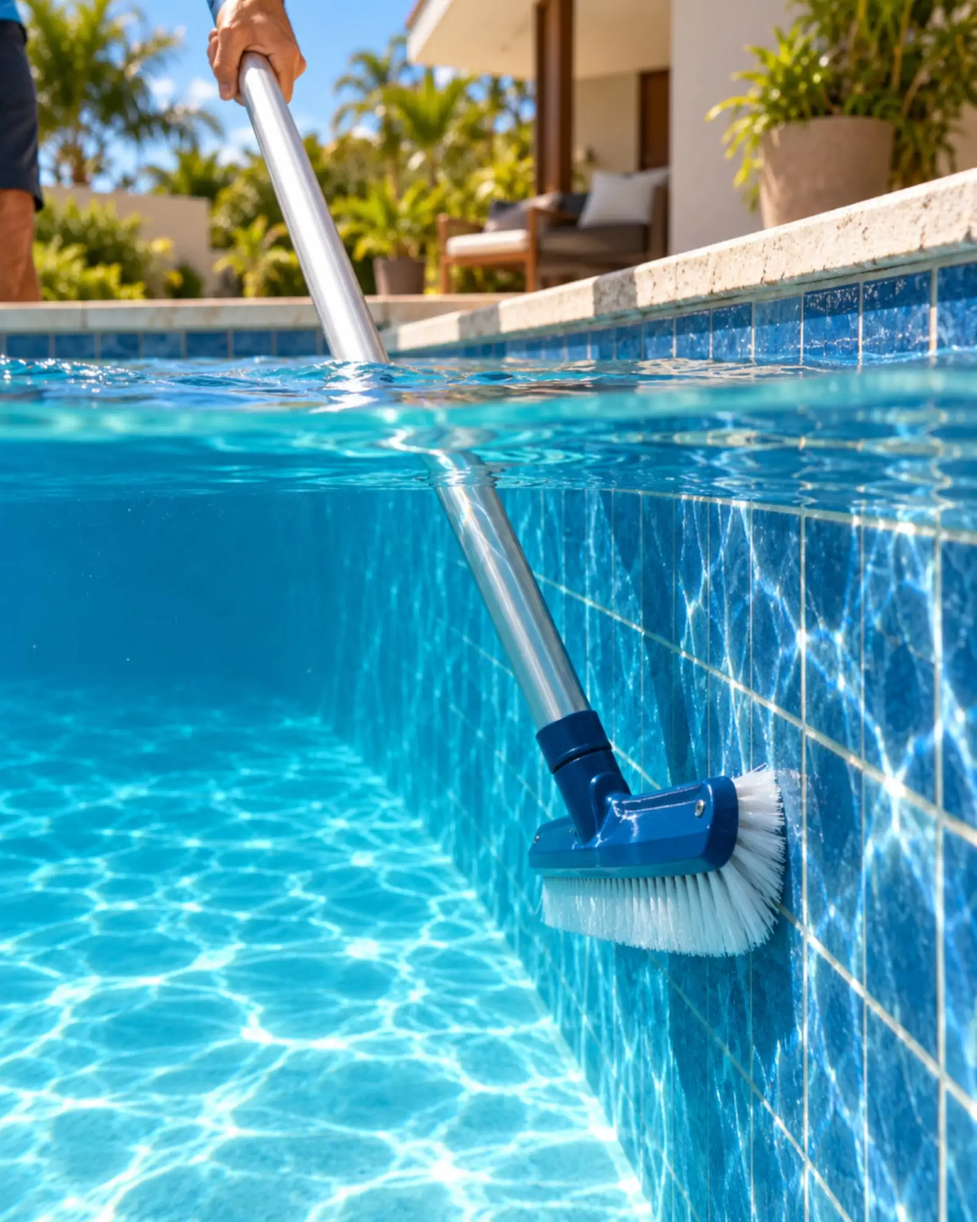
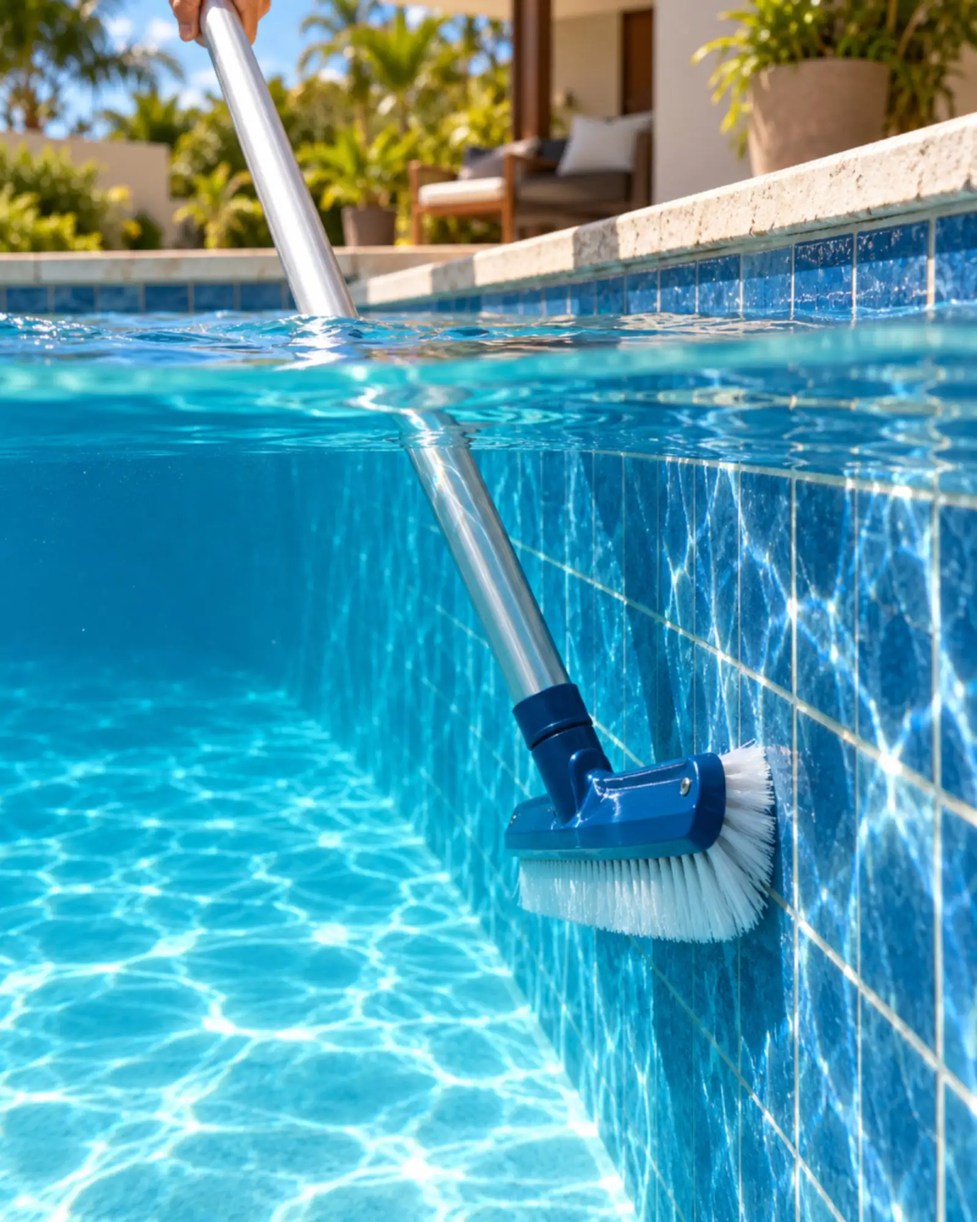
Ajustes r2: divisória da grade de marcas, controle −/+ no card da limpeza, nova foto do card Serviço

diff --git a/limpeza.html b/limpeza.html
@@ -62,37 +62,37 @@
     <div class="aviso-pendente" role="note"><p class="aviso-pendente__rotulo">PRECISA DE RESPOSTA DO VINI:</p><p>lista dos produtos de limpeza em estoque (nome, marca, embalagem) e se entregam ou só retirada. Os 16 itens abaixo são uma lista comum, para ajustar.</p></div>
     <div class="filtros" role="group" aria-label="Filtrar por tipo"><button type="button" data-filtro="todos" aria-pressed="true">Todos</button><button type="button" data-filtro="Cloro" aria-pressed="false">Cloro</button><button type="button" data-filtro="Algicida" aria-pressed="false">Algicida</button><button type="button" data-filtro="Clarificante" aria-pressed="false">Clarificante</button><button type="button" data-filtro="pH e alcalinidade" aria-pressed="false">pH e alcalinidade</button><button type="button" data-filtro="Borda e filtro" aria-pressed="false">Borda e filtro</button><button type="button" data-filtro="Testes" aria-pressed="false">Testes</button><button type="button" data-filtro="Acessórios" aria-pressed="false">Acessórios</button></div>
     <ul class="catalogo" role="list" data-catalogo data-rascunho><li class="card-produto" data-produto="cloro-granulado" data-nome="Cloro granulado" data-tipo="Cloro"><span class="icone-circulo"><svg aria-hidden="true" focusable="false" class="icone icone--droplets" xmlns="http://www.w3.org/2000/svg" width="24" height="24" viewBox="0 0 24 24" fill="none" stroke="currentColor" stroke-width="1.5" stroke-linecap="round" stroke-linejoin="round" ><path d="M7 16.3c2.2 0 4-1.83 4-4.05 0-1.16-.57-2.26-1.71-3.19S7.29 6.75 7 5.3c-.29 1.45-1.14 2.84-2.29 3.76S3 11.1 3 12.25c0 2.22 1.8 4.05 4 4.05z" /><path d="M12.56 6.6A10.97 10.97 0 0 0 14 3.02c.5 2.5 2 4.9 4 6.5s3 3.5 3 5.5a6.98 6.98 0 0 1-11.91 4.97" /></svg></span><h3>Cloro granulado</h3><p>Para o tratamento do dia a dia.</p>
-      <button type="button" class="botao botao--contorno" data-adicionar><svg aria-hidden="true" focusable="false" class="icone icone--plus" xmlns="http://www.w3.org/2000/svg" width="24" height="24" viewBox="0 0 24 24" fill="none" stroke="currentColor" stroke-width="1.5" stroke-linecap="round" stroke-linejoin="round" ><path d="M5 12h14" /><path d="M12 5v14" /></svg><span data-rotulo>Adicionar</span></button>
+      <button type="button" class="botao botao--contorno" data-adicionar aria-label="Adicionar Cloro granulado ao pedido"><svg aria-hidden="true" focusable="false" class="icone icone--plus" xmlns="http://www.w3.org/2000/svg" width="24" height="24" viewBox="0 0 24 24" fill="none" stroke="currentColor" stroke-width="1.5" stroke-linecap="round" stroke-linejoin="round" ><path d="M5 12h14" /><path d="M12 5v14" /></svg><span data-rotulo>Adicionar</span></button>
       <span class="card-produto__qtd" data-qtd hidden><button type="button" data-card-menos aria-label="Tirar um Cloro granulado">−</button><output aria-live="polite">0</output><button type="button" data-card-mais aria-label="Pôr mais um Cloro granulado">+</button></span></li><li class="card-produto" data-produto="cloro-pastilha" data-nome="Cloro em pastilha" data-tipo="Cloro"><span class="icone-circulo"><svg aria-hidden="true" focusable="false" class="icone icone--pill" xmlns="http://www.w3.org/2000/svg" width="24" height="24" viewBox="0 0 24 24" fill="none" stroke="currentColor" stroke-width="1.5" stroke-linecap="round" stroke-linejoin="round" ><path d="m10.5 20.5 10-10a4.95 4.95 0 1 0-7-7l-10 10a4.95 4.95 0 1 0 7 7Z" /><path d="m8.5 8.5 7 7" /></svg></span><h3>Cloro em pastilha</h3><p>Dissolve aos poucos no flutuador ou no clorador.</p>
-      <button type="button" class="botao botao--contorno" data-adicionar><svg aria-hidden="true" focusable="false" class="icone icone--plus" xmlns="http://www.w3.org/2000/svg" width="24" height="24" viewBox="0 0 24 24" fill="none" stroke="currentColor" stroke-width="1.5" stroke-linecap="round" stroke-linejoin="round" ><path d="M5 12h14" /><path d="M12 5v14" /></svg><span data-rotulo>Adicionar</span></button>
+      <button type="button" class="botao botao--contorno" data-adicionar aria-label="Adicionar Cloro em pastilha ao pedido"><svg aria-hidden="true" focusable="false" class="icone icone--plus" xmlns="http://www.w3.org/2000/svg" width="24" height="24" viewBox="0 0 24 24" fill="none" stroke="currentColor" stroke-width="1.5" stroke-linecap="round" stroke-linejoin="round" ><path d="M5 12h14" /><path d="M12 5v14" /></svg><span data-rotulo>Adicionar</span></button>
       <span class="card-produto__qtd" data-qtd hidden><button type="button" data-card-menos aria-label="Tirar um Cloro em pastilha">−</button><output aria-live="polite">0</output><button type="button" data-card-mais aria-label="Pôr mais um Cloro em pastilha">+</button></span></li><li class="card-produto" data-produto="cloro-choque" data-nome="Cloro para choque" data-tipo="Cloro"><span class="icone-circulo"><svg aria-hidden="true" focusable="false" class="icone icone--zap" xmlns="http://www.w3.org/2000/svg" width="24" height="24" viewBox="0 0 24 24" fill="none" stroke="currentColor" stroke-width="1.5" stroke-linecap="round" stroke-linejoin="round" ><path d="M15.914 4a1.5 1.5 0 00-2.474-1.561l-9 9A1.5 1.5 0 005.5 14h4.002a.5.5 0 01.471.666L8.086 20a1.5 1.5 0 002.475 1.56l9-9A1.5 1.5 0 0018.5 10h-3.997a.5.5 0 01-.472-.667z" /></svg></span><h3>Cloro para choque</h3><p>Para quando a água sai do ponto.</p>
-      <button type="button" class="botao botao--contorno" data-adicionar><svg aria-hidden="true" focusable="false" class="icone icone--plus" xmlns="http://www.w3.org/2000/svg" width="24" height="24" viewBox="0 0 24 24" fill="none" stroke="currentColor" stroke-width="1.5" stroke-linecap="round" stroke-linejoin="round" ><path d="M5 12h14" /><path d="M12 5v14" /></svg><span data-rotulo>Adicionar</span></button>
+      <button type="button" class="botao botao--contorno" data-adicionar aria-label="Adicionar Cloro para choque ao pedido"><svg aria-hidden="true" focusable="false" class="icone icone--plus" xmlns="http://www.w3.org/2000/svg" width="24" height="24" viewBox="0 0 24 24" fill="none" stroke="currentColor" stroke-width="1.5" stroke-linecap="round" stroke-linejoin="round" ><path d="M5 12h14" /><path d="M12 5v14" /></svg><span data-rotulo>Adicionar</span></button>
       <span class="card-produto__qtd" data-qtd hidden><button type="button" data-card-menos aria-label="Tirar um Cloro para choque">−</button><output aria-live="polite">0</output><button type="button" data-card-mais aria-label="Pôr mais um Cloro para choque">+</button></span></li><li class="card-produto" data-produto="algicida-manutencao" data-nome="Algicida de manutenção" data-tipo="Algicida"><span class="icone-circulo"><svg aria-hidden="true" focusable="false" class="icone icone--shield" xmlns="http://www.w3.org/2000/svg" width="24" height="24" viewBox="0 0 24 24" fill="none" stroke="currentColor" stroke-width="1.5" stroke-linecap="round" stroke-linejoin="round" ><path d="M20 13c0 5-3.5 7.5-7.66 8.95a1 1 0 0 1-.67-.01C7.5 20.5 4 18 4 13V6a1 1 0 0 1 1-1c2 0 4.5-1.2 6.24-2.72a1.17 1.17 0 0 1 1.52 0C14.51 3.81 17 5 19 5a1 1 0 0 1 1 1z" /></svg></span><h3>Algicida de manutenção</h3><p>Segura a alga entre uma limpeza e outra.</p>
-      <button type="button" class="botao botao--contorno" data-adicionar><svg aria-hidden="true" focusable="false" class="icone icone--plus" xmlns="http://www.w3.org/2000/svg" width="24" height="24" viewBox="0 0 24 24" fill="none" stroke="currentColor" stroke-width="1.5" stroke-linecap="round" stroke-linejoin="round" ><path d="M5 12h14" /><path d="M12 5v14" /></svg><span data-rotulo>Adicionar</span></button>
+      <button type="button" class="botao botao--contorno" data-adicionar aria-label="Adicionar Algicida de manutenção ao pedido"><svg aria-hidden="true" focusable="false" class="icone icone--plus" xmlns="http://www.w3.org/2000/svg" width="24" height="24" viewBox="0 0 24 24" fill="none" stroke="currentColor" stroke-width="1.5" stroke-linecap="round" stroke-linejoin="round" ><path d="M5 12h14" /><path d="M12 5v14" /></svg><span data-rotulo>Adicionar</span></button>
       <span class="card-produto__qtd" data-qtd hidden><button type="button" data-card-menos aria-label="Tirar um Algicida de manutenção">−</button><output aria-live="polite">0</output><button type="button" data-card-mais aria-label="Pôr mais um Algicida de manutenção">+</button></span></li><li class="card-produto" data-produto="algicida-choque" data-nome="Algicida de choque" data-tipo="Algicida"><span class="icone-circulo"><svg aria-hidden="true" focusable="false" class="icone icone--leaf" xmlns="http://www.w3.org/2000/svg" width="24" height="24" viewBox="0 0 24 24" fill="none" stroke="currentColor" stroke-width="1.5" stroke-linecap="round" stroke-linejoin="round" ><path d="M11 20a10 10 0 0010-10 25.9 25.9 0 00-1.04-7.281 1 1 0 00-1.755-.325C15.833 5.5 13 5.5 9.8 6.1A7 7 0 0011 20" /><path d="M2 21a5 5 0 012.911-4.544C7.613 15.212 8.351 15.24 11 13" /></svg></span><h3>Algicida de choque</h3><p>Para água esverdeada ou parede com limo.</p>
-      <button type="button" class="botao botao--contorno" data-adicionar><svg aria-hidden="true" focusable="false" class="icone icone--plus" xmlns="http://www.w3.org/2000/svg" width="24" height="24" viewBox="0 0 24 24" fill="none" stroke="currentColor" stroke-width="1.5" stroke-linecap="round" stroke-linejoin="round" ><path d="M5 12h14" /><path d="M12 5v14" /></svg><span data-rotulo>Adicionar</span></button>
+      <button type="button" class="botao botao--contorno" data-adicionar aria-label="Adicionar Algicida de choque ao pedido"><svg aria-hidden="true" focusable="false" class="icone icone--plus" xmlns="http://www.w3.org/2000/svg" width="24" height="24" viewBox="0 0 24 24" fill="none" stroke="currentColor" stroke-width="1.5" stroke-linecap="round" stroke-linejoin="round" ><path d="M5 12h14" /><path d="M12 5v14" /></svg><span data-rotulo>Adicionar</span></button>
       <span class="card-produto__qtd" data-qtd hidden><button type="button" data-card-menos aria-label="Tirar um Algicida de choque">−</button><output aria-live="polite">0</output><button type="button" data-card-mais aria-label="Pôr mais um Algicida de choque">+</button></span></li><li class="card-produto" data-produto="clarificante" data-nome="Clarificante" data-tipo="Clarificante"><span class="icone-circulo"><svg aria-hidden="true" focusable="false" class="icone icone--sparkles" xmlns="http://www.w3.org/2000/svg" width="24" height="24" viewBox="0 0 24 24" fill="none" stroke="currentColor" stroke-width="1.5" stroke-linecap="round" stroke-linejoin="round" ><path d="M11.017 2.814a1 1 0 0 1 1.966 0l1.051 5.558a2 2 0 0 0 1.594 1.594l5.558 1.051a1 1 0 0 1 0 1.966l-5.558 1.051a2 2 0 0 0-1.594 1.594l-1.051 5.558a1 1 0 0 1-1.966 0l-1.051-5.558a2 2 0 0 0-1.594-1.594l-5.558-1.051a1 1 0 0 1 0-1.966l5.558-1.051a2 2 0 0 0 1.594-1.594z" /><path d="M20 2v4" /><path d="M22 4h-4" /><circle cx="4" cy="20" r="2" /></svg></span><h3>Clarificante</h3><p>Ajuda o filtro a segurar a sujeira fina.</p>
-      <button type="button" class="botao botao--contorno" data-adicionar><svg aria-hidden="true" focusable="false" class="icone icone--plus" xmlns="http://www.w3.org/2000/svg" width="24" height="24" viewBox="0 0 24 24" fill="none" stroke="currentColor" stroke-width="1.5" stroke-linecap="round" stroke-linejoin="round" ><path d="M5 12h14" /><path d="M12 5v14" /></svg><span data-rotulo>Adicionar</span></button>
+      <button type="button" class="botao botao--contorno" data-adicionar aria-label="Adicionar Clarificante ao pedido"><svg aria-hidden="true" focusable="false" class="icone icone--plus" xmlns="http://www.w3.org/2000/svg" width="24" height="24" viewBox="0 0 24 24" fill="none" stroke="currentColor" stroke-width="1.5" stroke-linecap="round" stroke-linejoin="round" ><path d="M5 12h14" /><path d="M12 5v14" /></svg><span data-rotulo>Adicionar</span></button>
       <span class="card-produto__qtd" data-qtd hidden><button type="button" data-card-menos aria-label="Tirar um Clarificante">−</button><output aria-live="polite">0</output><button type="button" data-card-mais aria-label="Pôr mais um Clarificante">+</button></span></li><li class="card-produto" data-produto="decantador" data-nome="Decantador" data-tipo="Clarificante"><span class="icone-circulo"><svg aria-hidden="true" focusable="false" class="icone icone--arrow-down-to-line" xmlns="http://www.w3.org/2000/svg" width="24" height="24" viewBox="0 0 24 24" fill="none" stroke="currentColor" stroke-width="1.5" stroke-linecap="round" stroke-linejoin="round" ><path d="M12 17V3" /><path d="m6 11 6 6 6-6" /><path d="M19 21H5" /></svg></span><h3>Decantador</h3><p>Junta a sujeira no fundo para aspirar depois.</p>
-      <button type="button" class="botao botao--contorno" data-adicionar><svg aria-hidden="true" focusable="false" class="icone icone--plus" xmlns="http://www.w3.org/2000/svg" width="24" height="24" viewBox="0 0 24 24" fill="none" stroke="currentColor" stroke-width="1.5" stroke-linecap="round" stroke-linejoin="round" ><path d="M5 12h14" /><path d="M12 5v14" /></svg><span data-rotulo>Adicionar</span></button>
+      <button type="button" class="botao botao--contorno" data-adicionar aria-label="Adicionar Decantador ao pedido"><svg aria-hidden="true" focusable="false" class="icone icone--plus" xmlns="http://www.w3.org/2000/svg" width="24" height="24" viewBox="0 0 24 24" fill="none" stroke="currentColor" stroke-width="1.5" stroke-linecap="round" stroke-linejoin="round" ><path d="M5 12h14" /><path d="M12 5v14" /></svg><span data-rotulo>Adicionar</span></button>
       <span class="card-produto__qtd" data-qtd hidden><button type="button" data-card-menos aria-label="Tirar um Decantador">−</button><output aria-live="polite">0</output><button type="button" data-card-mais aria-label="Pôr mais um Decantador">+</button></span></li><li class="card-produto" data-produto="elevador-ph" data-nome="Elevador de pH" data-tipo="pH e alcalinidade"><span class="icone-circulo"><svg aria-hidden="true" focusable="false" class="icone icone--trending-up" xmlns="http://www.w3.org/2000/svg" width="24" height="24" viewBox="0 0 24 24" fill="none" stroke="currentColor" stroke-width="1.5" stroke-linecap="round" stroke-linejoin="round" ><path d="M16 7h6v6" /><path d="m22 7-8.5 8.5-5-5L2 17" /></svg></span><h3>Elevador de pH</h3><p>Para quando o teste mostra pH baixo.</p>
-      <button type="button" class="botao botao--contorno" data-adicionar><svg aria-hidden="true" focusable="false" class="icone icone--plus" xmlns="http://www.w3.org/2000/svg" width="24" height="24" viewBox="0 0 24 24" fill="none" stroke="currentColor" stroke-width="1.5" stroke-linecap="round" stroke-linejoin="round" ><path d="M5 12h14" /><path d="M12 5v14" /></svg><span data-rotulo>Adicionar</span></button>
+      <button type="button" class="botao botao--contorno" data-adicionar aria-label="Adicionar Elevador de pH ao pedido"><svg aria-hidden="true" focusable="false" class="icone icone--plus" xmlns="http://www.w3.org/2000/svg" width="24" height="24" viewBox="0 0 24 24" fill="none" stroke="currentColor" stroke-width="1.5" stroke-linecap="round" stroke-linejoin="round" ><path d="M5 12h14" /><path d="M12 5v14" /></svg><span data-rotulo>Adicionar</span></button>
       <span class="card-produto__qtd" data-qtd hidden><button type="button" data-card-menos aria-label="Tirar um Elevador de pH">−</button><output aria-live="polite">0</output><button type="button" data-card-mais aria-label="Pôr mais um Elevador de pH">+</button></span></li><li class="card-produto" data-produto="redutor-ph" data-nome="Redutor de pH" data-tipo="pH e alcalinidade"><span class="icone-circulo"><svg aria-hidden="true" focusable="false" class="icone icone--trending-down" xmlns="http://www.w3.org/2000/svg" width="24" height="24" viewBox="0 0 24 24" fill="none" stroke="currentColor" stroke-width="1.5" stroke-linecap="round" stroke-linejoin="round" ><path d="M16 17h6v-6" /><path d="m22 17-8.5-8.5-5 5L2 7" /></svg></span><h3>Redutor de pH</h3><p>Para quando o teste mostra pH alto.</p>
-      <button type="button" class="botao botao--contorno" data-adicionar><svg aria-hidden="true" focusable="false" class="icone icone--plus" xmlns="http://www.w3.org/2000/svg" width="24" height="24" viewBox="0 0 24 24" fill="none" stroke="currentColor" stroke-width="1.5" stroke-linecap="round" stroke-linejoin="round" ><path d="M5 12h14" /><path d="M12 5v14" /></svg><span data-rotulo>Adicionar</span></button>
+      <button type="button" class="botao botao--contorno" data-adicionar aria-label="Adicionar Redutor de pH ao pedido"><svg aria-hidden="true" focusable="false" class="icone icone--plus" xmlns="http://www.w3.org/2000/svg" width="24" height="24" viewBox="0 0 24 24" fill="none" stroke="currentColor" stroke-width="1.5" stroke-linecap="round" stroke-linejoin="round" ><path d="M5 12h14" /><path d="M12 5v14" /></svg><span data-rotulo>Adicionar</span></button>
       <span class="card-produto__qtd" data-qtd hidden><button type="button" data-card-menos aria-label="Tirar um Redutor de pH">−</button><output aria-live="polite">0</output><button type="button" data-card-mais aria-label="Pôr mais um Redutor de pH">+</button></span></li><li class="card-produto" data-produto="elevador-alcalinidade" data-nome="Elevador de alcalinidade" data-tipo="pH e alcalinidade"><span class="icone-circulo"><svg aria-hidden="true" focusable="false" class="icone icone--activity" xmlns="http://www.w3.org/2000/svg" width="24" height="24" viewBox="0 0 24 24" fill="none" stroke="currentColor" stroke-width="1.5" stroke-linecap="round" stroke-linejoin="round" ><path d="M22 12h-2.48a2 2 0 0 0-1.93 1.46l-2.35 8.36a.25.25 0 0 1-.48 0L9.24 2.18a.25.25 0 0 0-.48 0l-2.35 8.36A2 2 0 0 1 4.49 12H2" /></svg></span><h3>Elevador de alcalinidade</h3><p>Ajuda o pH a parar de oscilar.</p>
-      <button type="button" class="botao botao--contorno" data-adicionar><svg aria-hidden="true" focusable="false" class="icone icone--plus" xmlns="http://www.w3.org/2000/svg" width="24" height="24" viewBox="0 0 24 24" fill="none" stroke="currentColor" stroke-width="1.5" stroke-linecap="round" stroke-linejoin="round" ><path d="M5 12h14" /><path d="M12 5v14" /></svg><span data-rotulo>Adicionar</span></button>
+      <button type="button" class="botao botao--contorno" data-adicionar aria-label="Adicionar Elevador de alcalinidade ao pedido"><svg aria-hidden="true" focusable="false" class="icone icone--plus" xmlns="http://www.w3.org/2000/svg" width="24" height="24" viewBox="0 0 24 24" fill="none" stroke="currentColor" stroke-width="1.5" stroke-linecap="round" stroke-linejoin="round" ><path d="M5 12h14" /><path d="M12 5v14" /></svg><span data-rotulo>Adicionar</span></button>
       <span class="card-produto__qtd" data-qtd hidden><button type="button" data-card-menos aria-label="Tirar um Elevador de alcalinidade">−</button><output aria-live="polite">0</output><button type="button" data-card-mais aria-label="Pôr mais um Elevador de alcalinidade">+</button></span></li><li class="card-produto" data-produto="limpa-bordas" data-nome="Limpa-bordas" data-tipo="Borda e filtro"><span class="icone-circulo"><svg aria-hidden="true" focusable="false" class="icone icone--spray-can" xmlns="http://www.w3.org/2000/svg" width="24" height="24" viewBox="0 0 24 24" fill="none" stroke="currentColor" stroke-width="1.5" stroke-linecap="round" stroke-linejoin="round" ><path d="M3 3h.01" /><path d="M7 5h.01" /><path d="M11 7h.01" /><path d="M3 7h.01" /><path d="M7 9h.01" /><path d="M3 11h.01" /><rect width="4" height="4" x="15" y="5" /><path d="m19 9 2 2v10c0 .6-.4 1-1 1h-6c-.6 0-1-.4-1-1V11l2-2" /><path d="m13 14 8-2" /><path d="m13 19 8-2" /></svg></span><h3>Limpa-bordas</h3><p>Tira a marca de gordura na linha d'água.</p>
-      <button type="button" class="botao botao--contorno" data-adicionar><svg aria-hidden="true" focusable="false" class="icone icone--plus" xmlns="http://www.w3.org/2000/svg" width="24" height="24" viewBox="0 0 24 24" fill="none" stroke="currentColor" stroke-width="1.5" stroke-linecap="round" stroke-linejoin="round" ><path d="M5 12h14" /><path d="M12 5v14" /></svg><span data-rotulo>Adicionar</span></button>
+      <button type="button" class="botao botao--contorno" data-adicionar aria-label="Adicionar Limpa-bordas ao pedido"><svg aria-hidden="true" focusable="false" class="icone icone--plus" xmlns="http://www.w3.org/2000/svg" width="24" height="24" viewBox="0 0 24 24" fill="none" stroke="currentColor" stroke-width="1.5" stroke-linecap="round" stroke-linejoin="round" ><path d="M5 12h14" /><path d="M12 5v14" /></svg><span data-rotulo>Adicionar</span></button>
       <span class="card-produto__qtd" data-qtd hidden><button type="button" data-card-menos aria-label="Tirar um Limpa-bordas">−</button><output aria-live="polite">0</output><button type="button" data-card-mais aria-label="Pôr mais um Limpa-bordas">+</button></span></li><li class="card-produto" data-produto="limpa-filtro" data-nome="Limpador de filtro" data-tipo="Borda e filtro"><span class="icone-circulo"><svg aria-hidden="true" focusable="false" class="icone icone--filter" xmlns="http://www.w3.org/2000/svg" width="24" height="24" viewBox="0 0 24 24" fill="none" stroke="currentColor" stroke-width="1.5" stroke-linecap="round" stroke-linejoin="round" ><path d="M10 20a1 1 0 0 0 .553.895l2 1A1 1 0 0 0 14 21v-7a2 2 0 0 1 .517-1.341L21.74 4.67A1 1 0 0 0 21 3H3a1 1 0 0 0-.742 1.67l7.225 7.989A2 2 0 0 1 10 14z" /></svg></span><h3>Limpador de filtro</h3><p>Para lavar a areia ou o elemento do filtro.</p>
-      <button type="button" class="botao botao--contorno" data-adicionar><svg aria-hidden="true" focusable="false" class="icone icone--plus" xmlns="http://www.w3.org/2000/svg" width="24" height="24" viewBox="0 0 24 24" fill="none" stroke="currentColor" stroke-width="1.5" stroke-linecap="round" stroke-linejoin="round" ><path d="M5 12h14" /><path d="M12 5v14" /></svg><span data-rotulo>Adicionar</span></button>
+      <button type="button" class="botao botao--contorno" data-adicionar aria-label="Adicionar Limpador de filtro ao pedido"><svg aria-hidden="true" focusable="false" class="icone icone--plus" xmlns="http://www.w3.org/2000/svg" width="24" height="24" viewBox="0 0 24 24" fill="none" stroke="currentColor" stroke-width="1.5" stroke-linecap="round" stroke-linejoin="round" ><path d="M5 12h14" /><path d="M12 5v14" /></svg><span data-rotulo>Adicionar</span></button>
       <span class="card-produto__qtd" data-qtd hidden><button type="button" data-card-menos aria-label="Tirar um Limpador de filtro">−</button><output aria-live="polite">0</output><button type="button" data-card-mais aria-label="Pôr mais um Limpador de filtro">+</button></span></li><li class="card-produto" data-produto="estojo-teste" data-nome="Estojo de teste de pH e cloro" data-tipo="Testes"><span class="icone-circulo"><svg aria-hidden="true" focusable="false" class="icone icone--test-tubes" xmlns="http://www.w3.org/2000/svg" width="24" height="24" viewBox="0 0 24 24" fill="none" stroke="currentColor" stroke-width="1.5" stroke-linecap="round" stroke-linejoin="round" ><path d="M9 2v17.5A2.5 2.5 0 0 1 6.5 22A2.5 2.5 0 0 1 4 19.5V2" /><path d="M20 2v17.5a2.5 2.5 0 0 1-2.5 2.5a2.5 2.5 0 0 1-2.5-2.5V2" /><path d="M3 2h7" /><path d="M14 2h7" /><path d="M9 16H4" /><path d="M20 16h-5" /></svg></span><h3>Estojo de teste de pH e cloro</h3><p>Mostra como a água está antes de pôr produto.</p>
-      <button type="button" class="botao botao--contorno" data-adicionar><svg aria-hidden="true" focusable="false" class="icone icone--plus" xmlns="http://www.w3.org/2000/svg" width="24" height="24" viewBox="0 0 24 24" fill="none" stroke="currentColor" stroke-width="1.5" stroke-linecap="round" stroke-linejoin="round" ><path d="M5 12h14" /><path d="M12 5v14" /></svg><span data-rotulo>Adicionar</span></button>
+      <button type="button" class="botao botao--contorno" data-adicionar aria-label="Adicionar Estojo de teste de pH e cloro ao pedido"><svg aria-hidden="true" focusable="false" class="icone icone--plus" xmlns="http://www.w3.org/2000/svg" width="24" height="24" viewBox="0 0 24 24" fill="none" stroke="currentColor" stroke-width="1.5" stroke-linecap="round" stroke-linejoin="round" ><path d="M5 12h14" /><path d="M12 5v14" /></svg><span data-rotulo>Adicionar</span></button>
       <span class="card-produto__qtd" data-qtd hidden><button type="button" data-card-menos aria-label="Tirar um Estojo de teste de pH e cloro">−</button><output aria-live="polite">0</output><button type="button" data-card-mais aria-label="Pôr mais um Estojo de teste de pH e cloro">+</button></span></li><li class="card-produto" data-produto="fitas-teste" data-nome="Fitas de teste" data-tipo="Testes"><span class="icone-circulo"><svg aria-hidden="true" focusable="false" class="icone icone--test-tube" xmlns="http://www.w3.org/2000/svg" width="24" height="24" viewBox="0 0 24 24" fill="none" stroke="currentColor" stroke-width="1.5" stroke-linecap="round" stroke-linejoin="round" ><path d="M14.5 2v17.5c0 1.4-1.1 2.5-2.5 2.5c-1.4 0-2.5-1.1-2.5-2.5V2" /><path d="M8.5 2h7" /><path d="M14.5 16h-5" /></svg></span><h3>Fitas de teste</h3><p>O teste rápido: molha a fita e compara a cor.</p>
-      <button type="button" class="botao botao--contorno" data-adicionar><svg aria-hidden="true" focusable="false" class="icone icone--plus" xmlns="http://www.w3.org/2000/svg" width="24" height="24" viewBox="0 0 24 24" fill="none" stroke="currentColor" stroke-width="1.5" stroke-linecap="round" stroke-linejoin="round" ><path d="M5 12h14" /><path d="M12 5v14" /></svg><span data-rotulo>Adicionar</span></button>
+      <button type="button" class="botao botao--contorno" data-adicionar aria-label="Adicionar Fitas de teste ao pedido"><svg aria-hidden="true" focusable="false" class="icone icone--plus" xmlns="http://www.w3.org/2000/svg" width="24" height="24" viewBox="0 0 24 24" fill="none" stroke="currentColor" stroke-width="1.5" stroke-linecap="round" stroke-linejoin="round" ><path d="M5 12h14" /><path d="M12 5v14" /></svg><span data-rotulo>Adicionar</span></button>
       <span class="card-produto__qtd" data-qtd hidden><button type="button" data-card-menos aria-label="Tirar um Fitas de teste">−</button><output aria-live="polite">0</output><button type="button" data-card-mais aria-label="Pôr mais um Fitas de teste">+</button></span></li><li class="card-produto" data-produto="peneira" data-nome="Peneira pega-folhas" data-tipo="Acessórios"><span class="icone-circulo"><svg aria-hidden="true" focusable="false" class="icone icone--grid-3x3" xmlns="http://www.w3.org/2000/svg" width="24" height="24" viewBox="0 0 24 24" fill="none" stroke="currentColor" stroke-width="1.5" stroke-linecap="round" stroke-linejoin="round" ><rect width="18" height="18" x="3" y="3" rx="2" /><path d="M3 9h18" /><path d="M3 15h18" /><path d="M9 3v18" /><path d="M15 3v18" /></svg></span><h3>Peneira pega-folhas</h3><p>Tira a folha antes que ela afunde.</p>
-      <button type="button" class="botao botao--contorno" data-adicionar><svg aria-hidden="true" focusable="false" class="icone icone--plus" xmlns="http://www.w3.org/2000/svg" width="24" height="24" viewBox="0 0 24 24" fill="none" stroke="currentColor" stroke-width="1.5" stroke-linecap="round" stroke-linejoin="round" ><path d="M5 12h14" /><path d="M12 5v14" /></svg><span data-rotulo>Adicionar</span></button>
+      <button type="button" class="botao botao--contorno" data-adicionar aria-label="Adicionar Peneira pega-folhas ao pedido"><svg aria-hidden="true" focusable="false" class="icone icone--plus" xmlns="http://www.w3.org/2000/svg" width="24" height="24" viewBox="0 0 24 24" fill="none" stroke="currentColor" stroke-width="1.5" stroke-linecap="round" stroke-linejoin="round" ><path d="M5 12h14" /><path d="M12 5v14" /></svg><span data-rotulo>Adicionar</span></button>
       <span class="card-produto__qtd" data-qtd hidden><button type="button" data-card-menos aria-label="Tirar um Peneira pega-folhas">−</button><output aria-live="polite">0</output><button type="button" data-card-mais aria-label="Pôr mais um Peneira pega-folhas">+</button></span></li><li class="card-produto" data-produto="escova" data-nome="Escova de parede" data-tipo="Acessórios"><span class="icone-circulo"><svg aria-hidden="true" focusable="false" class="icone icone--brush" xmlns="http://www.w3.org/2000/svg" width="24" height="24" viewBox="0 0 24 24" fill="none" stroke="currentColor" stroke-width="1.5" stroke-linecap="round" stroke-linejoin="round" ><path d="m11 10 3 3" /><path d="M6.5 21A3.5 3.5 0 1 0 3 17.5a2.62 2.62 0 0 1-.708 1.792A1 1 0 0 0 3 21z" /><path d="M9.969 17.031 21.378 5.624a1 1 0 0 0-3.002-3.002L6.967 14.031" /></svg></span><h3>Escova de parede</h3><p>Solta o limo da parede e do degrau.</p>
-      <button type="button" class="botao botao--contorno" data-adicionar><svg aria-hidden="true" focusable="false" class="icone icone--plus" xmlns="http://www.w3.org/2000/svg" width="24" height="24" viewBox="0 0 24 24" fill="none" stroke="currentColor" stroke-width="1.5" stroke-linecap="round" stroke-linejoin="round" ><path d="M5 12h14" /><path d="M12 5v14" /></svg><span data-rotulo>Adicionar</span></button>
+      <button type="button" class="botao botao--contorno" data-adicionar aria-label="Adicionar Escova de parede ao pedido"><svg aria-hidden="true" focusable="false" class="icone icone--plus" xmlns="http://www.w3.org/2000/svg" width="24" height="24" viewBox="0 0 24 24" fill="none" stroke="currentColor" stroke-width="1.5" stroke-linecap="round" stroke-linejoin="round" ><path d="M5 12h14" /><path d="M12 5v14" /></svg><span data-rotulo>Adicionar</span></button>
       <span class="card-produto__qtd" data-qtd hidden><button type="button" data-card-menos aria-label="Tirar um Escova de parede">−</button><output aria-live="polite">0</output><button type="button" data-card-mais aria-label="Pôr mais um Escova de parede">+</button></span></li></ul>
   </div>
 </section>

diff --git a/assets/js/site.js b/assets/js/site.js
@@ -50,18 +50,43 @@
     barra.hidden = total === 0;
     document.body.toggleAttribute('data-com-pedido', total > 0);
     contador.textContent = total === 1 ? '1 item' : total + ' itens';
+    /* a lista é recriada: guarda qual item e qual botão tinham o foco para devolver depois */
+    var ativo = document.activeElement, liAtivo = lista.contains(ativo) && ativo.closest('li');
+    var focoK = liAtivo && liAtivo.dataset.k, focoMais = liAtivo && ativo.hasAttribute('data-mais');
+    var ordemAntes = [].map.call(lista.children, function (li) { return li.dataset.k; });
     lista.innerHTML = '';
+    if (total === 0) { barra.removeAttribute('data-aberto'); abrirLista.setAttribute('aria-expanded', 'false'); }
     ids.forEach(function (k) {
       var li = document.createElement('li');
+      li.dataset.k = k;
       li.innerHTML = '<span class="pedido__nome"></span><span class="pedido__qtd">' +
-        '<button type="button" data-menos aria-label="Tirar um">−</button><output></output>' +
-        '<button type="button" data-mais aria-label="Pôr mais um">+</button></span>';
+        '<button type="button" data-menos>−</button><output></output>' +
+        '<button type="button" data-mais>+</button></span>';
       li.querySelector('.pedido__nome').textContent = nomes[k];
+      li.querySelector('[data-menos]').setAttribute('aria-label', 'Tirar um ' + nomes[k]);
+      li.querySelector('[data-mais]').setAttribute('aria-label', 'Pôr mais um ' + nomes[k]);
       li.querySelector('output').textContent = pedido[k];
       li.querySelector('[data-menos]').addEventListener('click', function () { mudar(k, -1); });
       li.querySelector('[data-mais]').addEventListener('click', function () { mudar(k, 1); });
       li.querySelector('[data-mais]').disabled = pedido[k] >= MAX;
       lista.appendChild(li);
+    });
+    if (focoK) {
+      var alvo = lista.querySelector('li[data-k="' + focoK + '"]');
+      if (alvo) {
+        var mais = alvo.querySelector('[data-mais]');
+        (focoMais && !mais.disabled ? mais : alvo.querySelector('[data-menos]')).focus();
+      } else {
+        /* o item zerou: foco no item que ficou no lugar, ou no "Adicionar" do card */
+        var prox = ordemAntes.slice(ordemAntes.indexOf(focoK) + 1).concat(ordemAntes.slice(0, ordemAntes.indexOf(focoK)).reverse())
+          .map(function (k) { return lista.querySelector('li[data-k="' + k + '"]'); }).filter(Boolean)[0];
+        if (prox) prox.querySelector('[data-menos]').focus();
+        else { var ad = grade.querySelector('[data-produto="' + focoK + '"] [data-adicionar]'); ad.hidden = false; ad.focus(); }
+      }
+    }
+    document.querySelectorAll('[data-guia-adicionar]').forEach(function (b) {
+      var todos = b.getAttribute('data-guia-adicionar').split(' ').every(function (k) { return !nomes[k] || pedido[k] > 0; });
+      b.querySelector('[data-rotulo]').textContent = todos ? 'Adicionado ao pedido' : 'Pôr no pedido';
     });
     var itens = ids.map(function (k) { return pedido[k] + '× ' + nomes[k]; }).join(', ');
     enviar.href = link('Olá! Vim pelo site e quero pedir: ' + itens + '. Qual o valor e o prazo? Entrega ou retirada?');
@@ -93,7 +118,6 @@
     b.addEventListener('click', function () {
       b.getAttribute('data-guia-adicionar').split(' ').forEach(function (k) { if (nomes[k] && !pedido[k]) pedido[k] = 1; });
       salvar(); render();
-      b.querySelector('[data-rotulo]').textContent = 'Adicionado ao pedido';
     });
   });
   abrirLista.addEventListener('click', function () {
